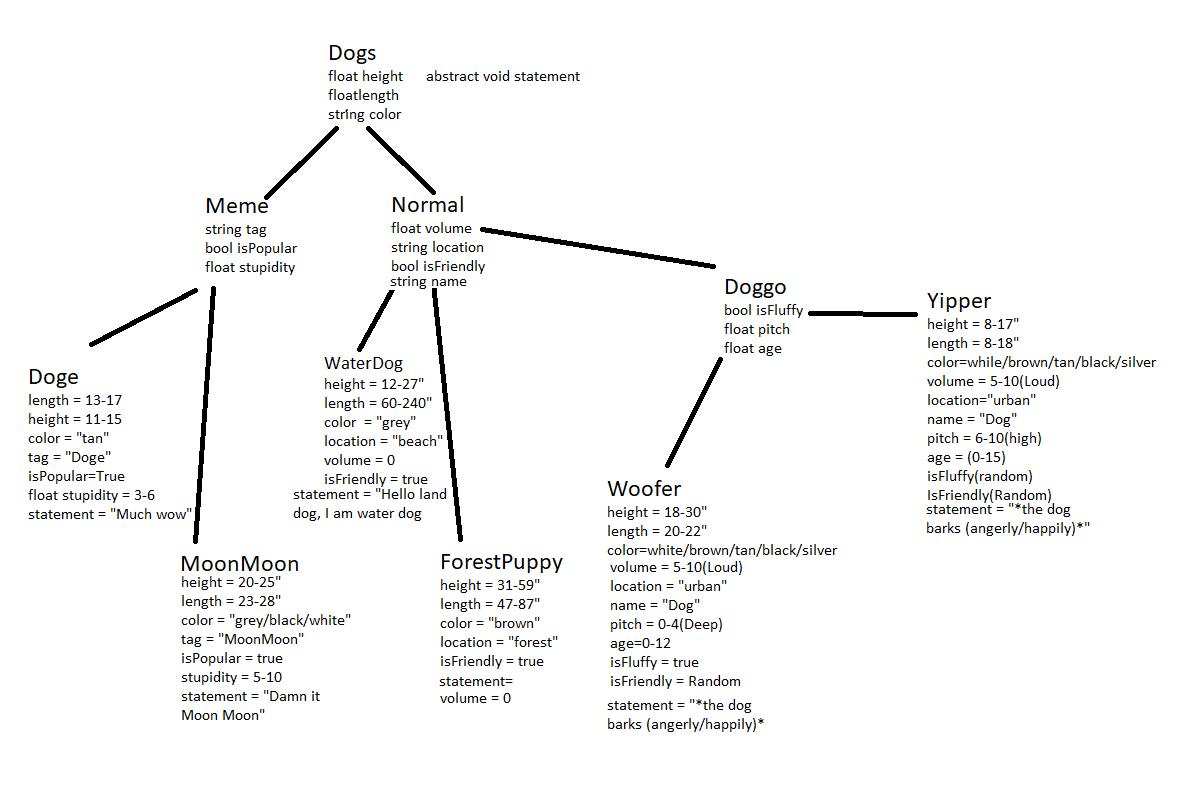
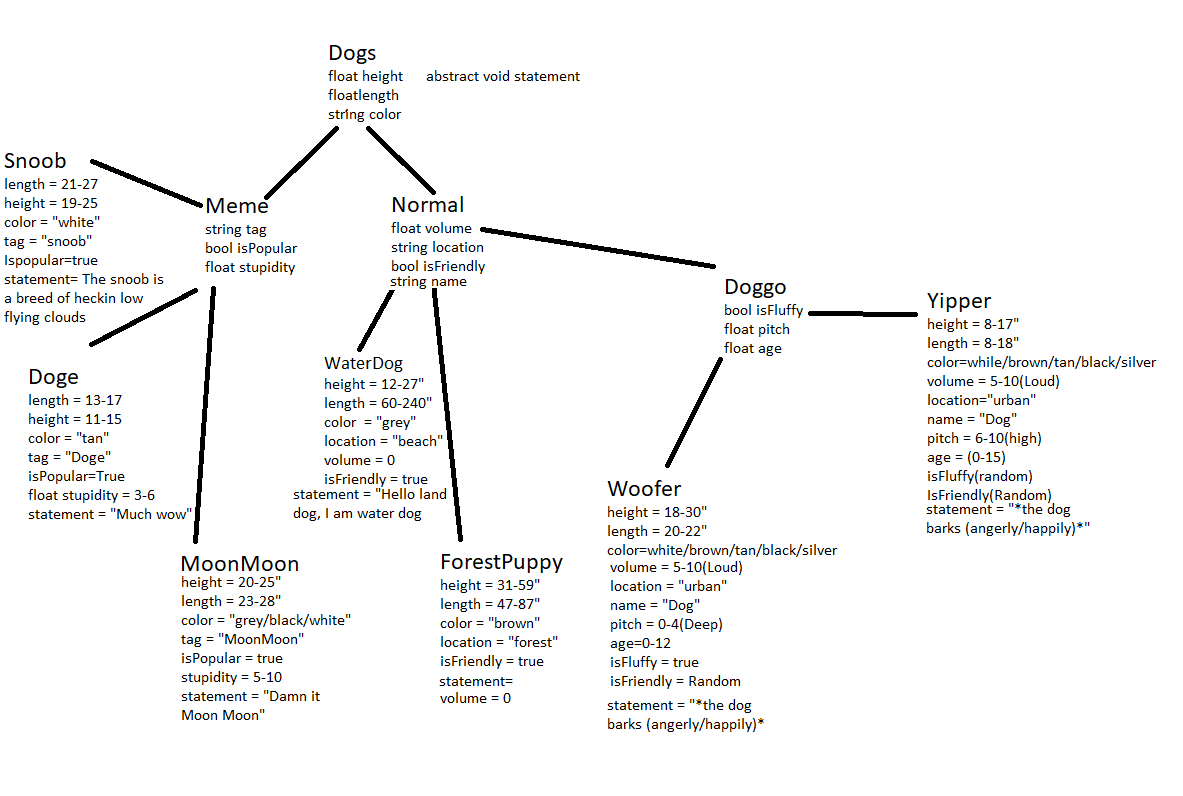
bug fixed

Changed region(s): [[0.0, 0.1809, 0.1522, 0.4221], [0.1522, 0.2412, 0.1826, 0.2714]]

diff --git a/Semester 2/Abstraction and  Inheritance/Abstraction and  Inheritance/Program.cs b/Semester 2/Abstraction and  Inheritance/Abstraction and  Inheritance/Program.cs
@@ -26,13 +26,13 @@ namespace Abstraction_and__Inheritance
                 {
 
                     t = rand.Next(1, 5);
-                    Dogs Mine = new waterDog(h = rand.Next(12, 28), l = rand.Next(12, 48), true, "", 0);
+                    Dogs Mine = new waterDog("");
                     if (t == 1)
                     {
                         Console.WriteLine("You got a Water Dog. A normal type");
                         Console.Write("What would you like to name it?: ");
                         n = Console.ReadLine();
-                        Mine = new waterDog(h = rand.Next(12, 28), l = rand.Next(12, 48), true, n, 0);
+                        Mine = new waterDog(n);
                         myDogs.Add(Mine);
                         Console.WriteLine("You got a Water Dog named " + n + " A real type");
                         myDogs.Add(Mine);
@@ -42,7 +42,7 @@ namespace Abstraction_and__Inheritance
                         Console.WriteLine("You got a Forest Puppy. A normal type");
                         Console.Write("What would you like to name it?: ");
                         n = Console.ReadLine();
-                        Mine = new ForestPuppy(h = rand.Next(31, 60), l = rand.Next(47, 87), true, n, 0);
+                        Mine = new ForestPuppy(n);
                         myDogs.Add(Mine);
                     }
                     else if (t == 3)
@@ -72,7 +72,7 @@ namespace Abstraction_and__Inheritance
                         Console.WriteLine("You got a Woofer. A normal type");
                         Console.Write("What would you like to name it?: ");
                         n = Console.ReadLine();
-                        Mine = new Woofer(h = rand.Next(18, 31), l = rand.Next(20, 33), rand.Next(5, 11), rand.Next(5, 11), n, rand.Next(0, 13));
+                        Mine = new Woofer(n);
                         Console.WriteLine("You got a Woofer named " + n + ". A real type");
                         myDogs.Add(Mine);
                     }
@@ -91,7 +91,7 @@ namespace Abstraction_and__Inheritance
                         Console.WriteLine("You got a Yipper. A normal type");
                         Console.Write("What would you like to name it?: ");
                         n = Console.ReadLine();
-                        Mine = new Yipper(h = rand.Next(20, 25), l = rand.Next(23, 28), rand.Next(5, 11), rand.Next(0, 5), n, s, rand.Next(0, 15));
+                        Mine = new Yipper(n);
                         myDogs.Add(Mine);
                         Console.WriteLine("You got a Yipper named " + n + ". A real type");
                     }
@@ -101,19 +101,25 @@ namespace Abstraction_and__Inheritance
                 }
                 else if (a == 'm' || a == 'M')
                 {
-                    t = rand.Next(1, 3);
-                    Dogs Mine = new Doge(h = rand.Next(11, 16), l = rand.Next(13, 18), w = rand.Next(3, 7));
+                    t = rand.Next(1, 4);
+                    Dogs Mine = new Doge();
                     if (t == 1)
                     {
-                        Mine = new Doge(h = rand.Next(11, 16), l = rand.Next(13, 18), w = rand.Next(3, 7));
+                        Mine = new Doge();
                         myDogs.Add(Mine);
                         Console.WriteLine("You got a Doge! A meme type!");
                     }
                     if (t == 2)
                     {
-                        Mine = new MoonMoon(rand.Next(20, 25), rand.Next(23, 28), rand.Next(5, 10));
+                        Mine = new MoonMoon();
                         myDogs.Add(Mine);
                         Console.WriteLine("You got a Moon Moon! A meme type!");
+                    }
+                    if (t == 3)
+                    {
+                        Mine = new Snoob();
+                        myDogs.Add(Mine);
+                        Console.WriteLine("You got a Snoob! A meme type!");
                     }
 
                     Mine.statement();
@@ -124,6 +130,7 @@ namespace Abstraction_and__Inheritance
 
                     Console.WriteLine(d);
                 }
+
                 Console.Write("Would you like another dog?(Y/N): ");
                 r = Console.ReadLine()[0];
             }

diff --git a/Semester 2/Abstraction and  Inheritance/Abstraction and  Inheritance/Classes/Yipper.cs b/Semester 2/Abstraction and  Inheritance/Abstraction and  Inheritance/Classes/Yipper.cs
@@ -7,23 +7,23 @@ namespace Abstraction_and__Inheritance.DogClasses
     class Yipper : Doggo
     {
         string c;
-        public Yipper(float height, float length, float volume, float pitch, string name, bool isFriendly, float age)
-            : base(height, length, volume, pitch, name, age)
+        public Yipper(string name)
+            : base(name)
         {
-            //int a = rand.Next(1, 3);
-            //if (a == 1)
-            //{
-            //isFriendly = false;
-            //isFluffy = false;
-            //}
-            //else
-            //{
-            //    isFriendly = true;
-            //    isFluffy = true;
-            //}
-            //pitch = rand.Next(7, 11);
-            //volume = rand.Next(5, 11);
-            //age = rand.Next(0, 15);
+            int a = rand.Next(1, 3);
+            if (a == 1)
+            {
+            isFriendly = false;
+            isFluffy = false;
+            }
+            else
+            {
+                isFriendly = true;
+                isFluffy = true;
+            }
+            pitch = rand.Next(7, 11);
+            volume = rand.Next(5, 11);
+            age = rand.Next(0, 15);
             int b = rand.Next(1, 6);
             if (b == 1)
             {

diff --git a/Semester 2/Abstraction and  Inheritance/Abstraction and  Inheritance/Classes/WaterDog.cs b/Semester 2/Abstraction and  Inheritance/Abstraction and  Inheritance/Classes/WaterDog.cs
@@ -4,20 +4,23 @@ using System.Text;
 
 namespace Abstraction_and__Inheritance.DogClasses
 {
-    public waterDog(float height, float length, bool isFriendly, string name, float volume)
-            : base(height, length, name, volume)
+    class waterDog : Normal
     {
-        //isFriendly = true;
-        color = "grey";
-        location = "beach";
-        species = "seal";
-        //length = rand.Next(60, 240) / 12;
-        //height = rand.Next(12, 48) / 12;
-        //volume = 0;
-    }
-    public override void statement()
-    {
-        Console.WriteLine("Hello land dog, I am water dog");
-        Console.WriteLine("******************************");
+        public waterDog(string name)
+            : base(name)
+        {
+            isFriendly = true;
+            color = "grey";
+            location = "beach";
+            species = "seal";
+            length = rand.Next(60, 240) / 12;
+            height = rand.Next(12, 48) / 12;
+            volume = 0;
+        }
+        public override void statement()
+        {
+            Console.WriteLine("Hello land dog, I am water dog");
+            Console.WriteLine("******************************");
+        }
     }
 }

diff --git a/Semester 2/Abstraction and  Inheritance/Abstraction and  Inheritance/Classes/ForestPuppy.cs b/Semester 2/Abstraction and  Inheritance/Abstraction and  Inheritance/Classes/ForestPuppy.cs
@@ -7,16 +7,16 @@ namespace Abstraction_and__Inheritance.DogClasses
     class ForestPuppy : Normal
     {
         int a;
-        public ForestPuppy(float height, float length, bool isFriendly, string name, float volume)
-            : base(height, length, name, volume)
+        public ForestPuppy(string name)
+            : base(name)
         {
-            //isFriendly = true;
+            isFriendly = true;
             color = "brown";
             location = "forest";
             species = "deer";
-            //length = rand.Next(47, 87) / 12;
-            //height = rand.Next(31, 60) / 12;
-            //volume = 0;
+            length = rand.Next(47, 87) / 12;
+            height = rand.Next(31, 60) / 12;
+            volume = 0;
         }
         public override void statement()
         {

diff --git a/Semester 2/Abstraction and  Inheritance/Abstraction and  Inheritance/Classes/Snoob.cs b/Semester 2/Abstraction and  Inheritance/Abstraction and  Inheritance/Classes/Snoob.cs
@@ -1,0 +1,24 @@
+using System;
+using System.Collections.Generic;
+using System.Text;
+
+namespace Abstraction_and__Inheritance.DogClasses
+{
+    class Snoob : Meme
+    {
+        public Snoob()
+            : base()
+        {
+            stupidity = rand.Next(0, 7);
+            color = "white";
+            tag = "Snoob";
+            height = rand.Next(19, 25);
+            length = rand.Next(21, 28);
+        }
+        public override void statement()
+        {
+            Console.WriteLine("The shoob is a breed of heckin low flying clouds");
+            Console.WriteLine("******************************");
+        }
+    }
+}

diff --git a/Semester 2/Abstraction and  Inheritance/Abstraction and  Inheritance/Classes/Doggo.cs b/Semester 2/Abstraction and  Inheritance/Abstraction and  Inheritance/Classes/Doggo.cs
@@ -10,12 +10,9 @@ namespace Abstraction_and__Inheritance.DogClasses
         protected float pitch;
         protected float age;
         protected string[] s = new string[5] { "white", "brown", "tan", "black", "silver" };
-        public Doggo(float height, float length, float volume, float pitch, string name, float age)
-            : base(height, length, name, volume)
+        public Doggo(string name)
+            : base(name)
         {
-            this.pitch = pitch;
-            this.age = age;
-
         }
     }
 }

diff --git a/Semester 2/Abstraction and  Inheritance/Abstraction and  Inheritance/Classes/Normal.cs b/Semester 2/Abstraction and  Inheritance/Abstraction and  Inheritance/Classes/Normal.cs
@@ -11,10 +11,9 @@ namespace Abstraction_and__Inheritance.DogClasses
         protected bool isFriendly;
         protected string species;
         protected string name;
-        public Normal(float height, float length, string name, float volume)
-            : base(height, length)
+        public Normal(string name)
+            : base()
         {
-            this.volume = volume;
             this.name = name;
         }
     }

diff --git a/Semester 2/Abstraction and  Inheritance/Abstraction and  Inheritance/Classes/Woofer.cs b/Semester 2/Abstraction and  Inheritance/Abstraction and  Inheritance/Classes/Woofer.cs
@@ -7,8 +7,8 @@ namespace Abstraction_and__Inheritance.DogClasses
     class Woofer : Doggo
     {
         string c;
-        public Woofer(float height, float length, float volume, float pitch, string name, float age)
-            : base(height, length, volume, pitch, name, age)
+        public Woofer(string name)
+            : base(name)
         {
 
             int a = rand.Next(1, 3);

diff --git a/Semester 2/Abstraction and  Inheritance/Abstraction and  Inheritance/Classes/Meme.cs b/Semester 2/Abstraction and  Inheritance/Abstraction and  Inheritance/Classes/Meme.cs
@@ -10,11 +10,10 @@ namespace Abstraction_and__Inheritance.DogClasses
         protected bool isPopular;
         protected float stupidity;
 
-        public Meme(float height, float length, float stupidity)
-            : base(height, length)
+        public Meme()
+            : base()
         {
             isPopular = true;
-            this.stupidity = stupidity;
 
         }
     }

diff --git a/Semester 2/Abstraction and  Inheritance/Abstraction and  Inheritance/Classes/MoonMoon.cs b/Semester 2/Abstraction and  Inheritance/Abstraction and  Inheritance/Classes/MoonMoon.cs
@@ -6,8 +6,8 @@ namespace Abstraction_and__Inheritance.DogClasses
 {
     class MoonMoon : Meme
     {
-        public MoonMoon(float height, float length, float stupidity)
-            : base(height, length, stupidity)
+        public MoonMoon()
+            : base()
         {
             stupidity = rand.Next(5, 10);
             color = "grey/black/white";

diff --git a/Semester 2/Abstraction and  Inheritance/Abstraction and  Inheritance/Classes/Dogs.cs b/Semester 2/Abstraction and  Inheritance/Abstraction and  Inheritance/Classes/Dogs.cs
@@ -11,10 +11,9 @@ namespace Abstraction_and__Inheritance.DogClasses
         protected string color;
         protected float length;
 
-        public Dogs(float height, float length)
+        public Dogs()
         {
-            this.height = height;
-            this.length = length;
+
         }
         public abstract void statement();
     }

diff --git a/Semester 2/Abstraction and  Inheritance/Abstraction and  Inheritance/Classes/Doge.cs b/Semester 2/Abstraction and  Inheritance/Abstraction and  Inheritance/Classes/Doge.cs
@@ -6,8 +6,8 @@ namespace Abstraction_and__Inheritance.DogClasses
 {
     class Doge : Meme
     {
-        public Doge(float height, float length, float stupidity)
-        : base(height, length, stupidity)
+        public Doge()
+        : base()
         {
             length = rand.Next(13, 18);
             height = rand.Next(11, 16);
